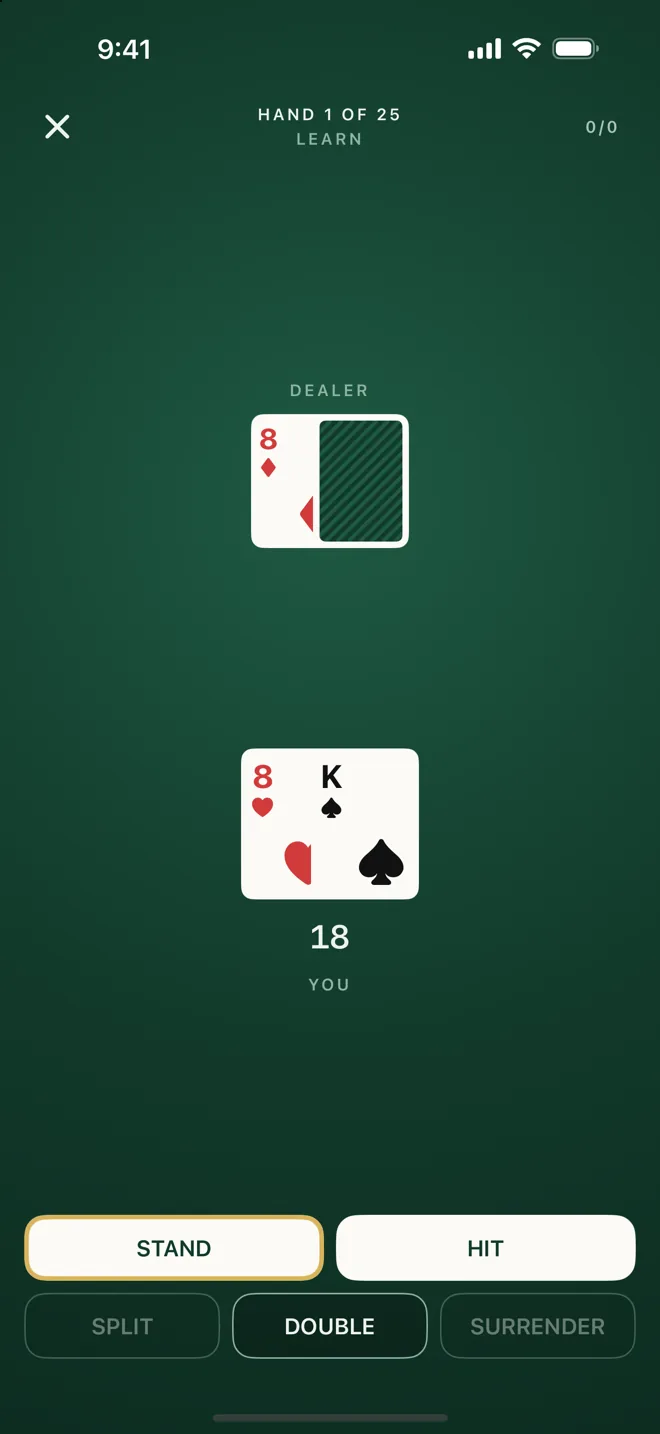
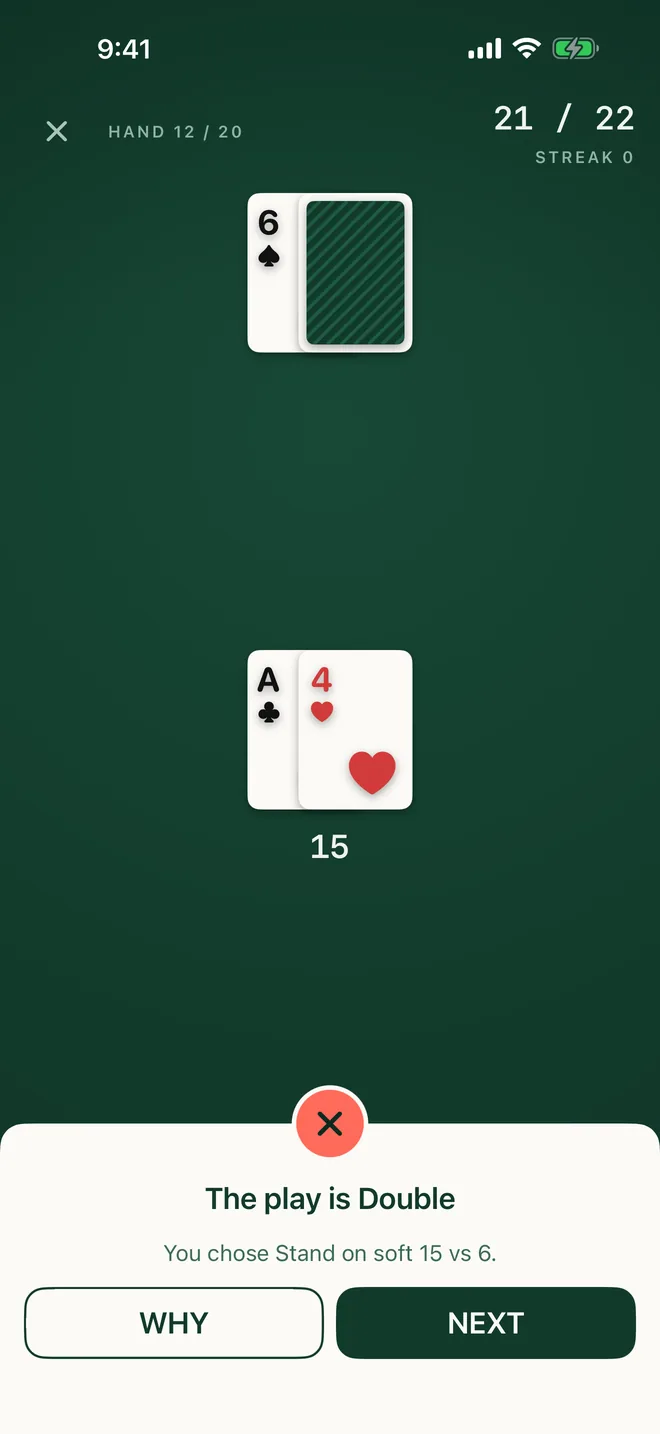
content: write-ups for BJS, Beacon, Clippers, Kalshi Weather Edge and Aglow brought to 17 November
- BJS: all eight rebuild steps merged, the app named Feltwise, the Pro tier
  on its own branch and in TestFlight; the repository is private, so the
  source link is gone; a new card capture from the App Store set.
- Beacon: the rubric as data (ADR 0011, migration 0005), clustering on
  Opus 5.5 and its re-recorded fixture, 21 ontology types, eleven ADRs.
- Clippers: four real game nights, the finalization retry and tip-off
  probe, 778 tests, and the older-history import merged but not yet run.
- Kalshi Weather Edge: the parked market maker and three paper-only tests
  with pre-registered verdicts due 30 November.
- Aglow: Career, par, the next-step row, the phone menu sheet, 1,761 unit
  and 261 e2e tests.

diff --git a/content/projects.ts b/content/projects.ts
@@ -46,7 +46,7 @@ export const projects: Project[] = [
     statusLabel: 'Research',
     live: false,
     selected: true,
-    where: 'demo pending',
+    where: 'paper tests, verdicts 30 Nov',
     href: '/work/kwx',
     description: 'The market out-predicts the model: 7,440 settled signals, and a calibration gate that never let it trade.',
     stack: 'Python · Kalshi API · Open-Meteo',
@@ -145,7 +145,7 @@ export const projects: Project[] = [
     selected: false,
     where: 'aglow.lukeghanna.com',
     href: '/work/aglow',
-    description: 'The Christmas Tree Light Up puzzle with its original rules, now with a Daily Tree, a radio and a leaderboard that replays every run.',
+    description: 'The Christmas Tree Light Up puzzle, rebuilt with a Daily Tree, a radio, a career page and a leaderboard that replays every run.',
     stack: 'TypeScript · Canvas 2D · Web Audio',
     screenshot: { src: '/work/aglow/fireside.webp', width: 2880, height: 1800 },
   },
@@ -155,9 +155,9 @@ export const projects: Project[] = [
     statusLabel: 'iOS',
     live: false,
     selected: false,
-    where: 'launch prep next',
+    where: 'in TestFlight',
     href: '/work/bjs',
-    description: 'A native blackjack trainer on a tested Swift package: strategy, counting, edge, progress and a shoe simulator are built.',
+    description: 'Feltwise, a blackjack trainer on a tested Swift package: strategy, counting, edge, progress and a shoe sim, with Pro in TestFlight.',
     stack: 'Swift 6 · SwiftUI · SwiftData',
     screenshot: { src: '/shots/bjs.webp', width: 660, height: 1434, phone: true },
   },

diff --git a/tests/e2e/home.spec.ts b/tests/e2e/home.spec.ts
@@ -11,7 +11,7 @@ test.describe('home', () => {
     await expect(page.locator('#projects a')).toHaveCount(slugs.length)
     // The status line describes the project, not the link: the live domain still shows for live sites.
     await expect(page.getByTestId('project-ccc')).toContainText('clippers.lukeghanna.com')
-    await expect(page.getByTestId('project-kwx')).toContainText('demo pending')
+    await expect(page.getByTestId('project-kwx')).toContainText('paper tests')
     await expect(page.locator('#projects h2')).toHaveText('Projects')
   })
 

diff --git a/docs/QUALITY.md b/docs/QUALITY.md
@@ -194,3 +194,7 @@ GitHub: descriptions, homepages and topics brought in line (Circuit, Aglow, Soli
 - **Shedquarters:** local `main` fast-forwarded GitHub to `f0ea6cd`. CI's first run failed fetching a Google font during `next build`; the rerun passed with 835 tests across 60 files (run 42418592709), and the write-up now cites that.
 - **Aglow:** the `home-alone` branch was pushed and fast-forwarded onto `main` (`f4d2f90`). The write-up now covers the Daily Tree, replays and ghosts, the wardrobe and Advent, six scenes and four light paths, and no longer mentions a score. 1,664 Vitest tests across 156 files (run; six need a build or performance flag) and 230 Playwright tests (200 desktop, 30 phone; listed).
 - **BJS:** local `main`, with Step 7 merged, was merged with GitHub's two README commits and pushed (`df1854c`), with the README's status brought through Step 7. Seven of eight steps are merged; 292 engine tests (run with `swift test`), 264 app and 7 UI (from `docs/superpowers/progress.md`).
+
+## 2026-11-17 BJS card capture
+
+`public/shots/bjs.webp` is now `docs/app-store/screenshots/01-decision.png` from the BJS repo (branch `step-9-monetization`, 11 November 2026): the strategy trainer on soft 15 against a dealer 6, taken in the iPhone 17 Pro Max simulator on iOS 26.4 with the store demo fixture, unframed, 1320×2868 downsized to 660×1434 WebP at quality 82. It replaces the September capture described above.
